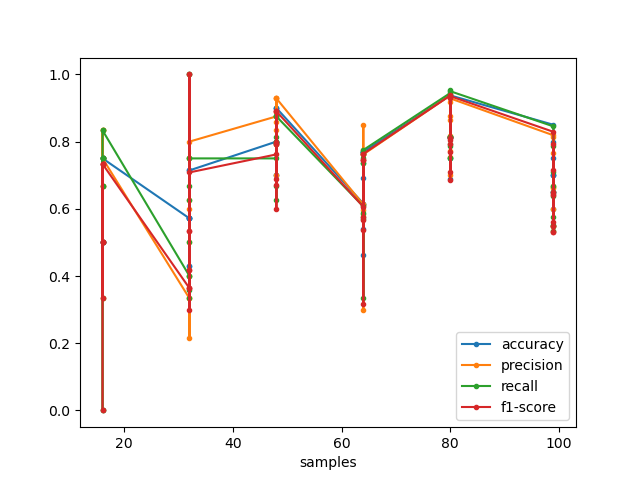
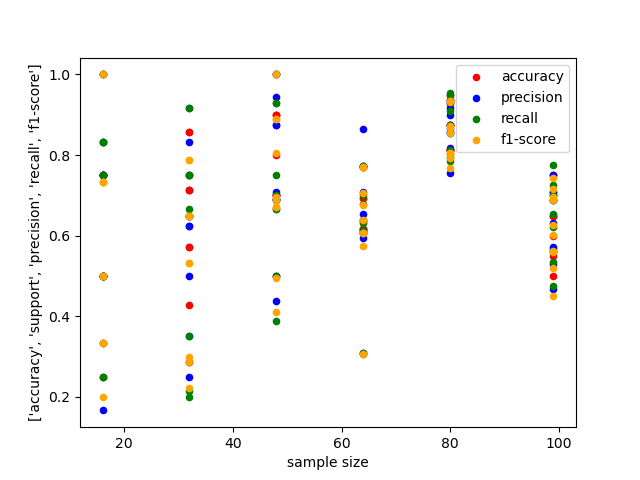
plot working with colors

diff --git a/columns.py b/columns.py
@@ -791,9 +791,13 @@ def datasetswitch(csv, limiter = None):
     # print("x_data ", x_data)
     df = pd.DataFrame(x_data, columns=colnames)
     df.to_csv("./output/"+filename + "_SVM.csv", index=False)
-    x = df.iloc[-1]
-    y = df.iloc[:,:-1]
-    df.plot( x = x, y = y, kind = 'scatter')
+    # df.plot(x = 'samples', y = ['accuracy', 'precision', 'recall', 'f1-score'], kind = 'scatter')
+    ax = df.plot(x = 'samples', y = 'accuracy', kind = 'scatter', c = 'r', label = 'accuracy')
+    df.plot(x = 'samples', y = 'precision', kind = 'scatter', c = 'b', label = 'precision', ax = ax)
+    df.plot(x = 'samples', y = 'recall', kind = 'scatter', c = 'g', label = 'recall', ax = ax)
+    df.plot(x = 'samples', y = 'f1-score', kind = 'scatter', c = 'orange', label = 'f1-score', ax = ax)
+    ax.set_xlabel("sample size")
+    ax.set_ylabel("['accuracy', 'support', 'precision', 'recall', 'f1-score']")
     plt.savefig("./plots/"+filename + "_SVM.png")
     plt.close()
 
@@ -804,7 +808,7 @@ def main():
     pbar = tqdm(datasets)
     for dataset in pbar:
         pbar.set_description("Processing %s" % dataset)
-        datasetswitch(dataset, limiter = None)
+        datasetswitch(dataset, limiter = 100)
     # datasetswitch("diabetes.csv") #clusters
     # datasetswitch("adultscensusincome.csv") #clusters
     # datasetswitch("bankmarketing.csv") #clusters
